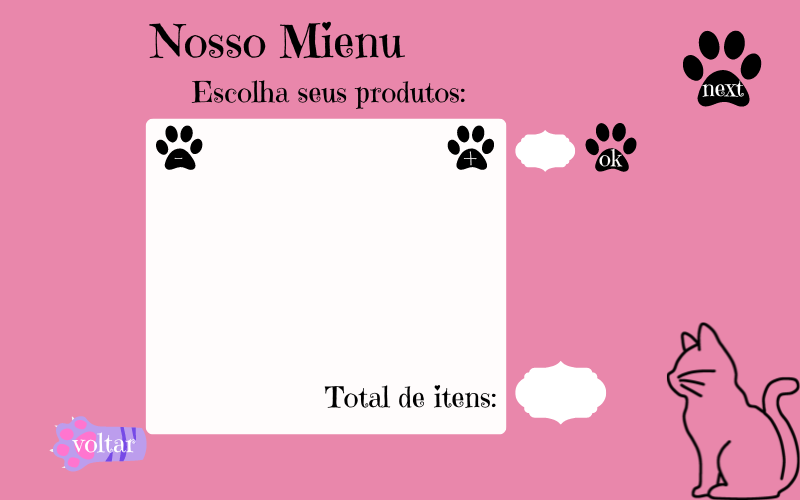
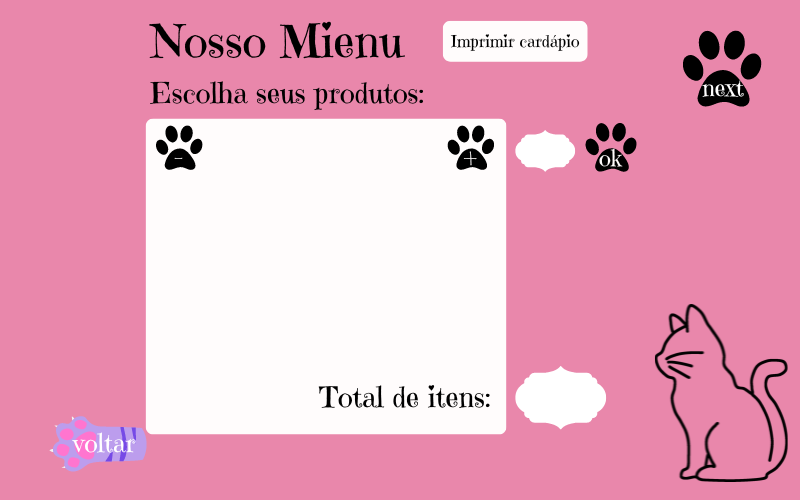
botao de imprimir cardápio e função adicionadas

diff --git a/deliveryDesafio/src/Menu.java b/deliveryDesafio/src/Menu.java
@@ -30,6 +30,9 @@ public class Menu  extends JFrame {
         Botao botaoOk = new Botao();
         botaoOk.setBounds(584, 122, 52, 55);
 
+        Botao botaoImprimir = new Botao();
+        botaoImprimir.setBounds(440, 0, 140, 40);
+
 
         //BOTOES DE AUMENTAR QNTD
         aumentarQtd = new Botao();
@@ -84,6 +87,19 @@ public class Menu  extends JFrame {
             }
         });
 
+        botaoImprimir.addActionListener(new ActionListener() {
+            public void actionPerformed(ActionEvent e) {
+                System.out.println("=-=-=-=-=-=-=-=-=-=-=-=-=-=-=-=-=-=-=-=-=");
+                System.out.println("Restaurante Esfihas Donatello");
+                System.out.println("PRODUTO ................... PREÇO");
+                System.out.println("Esfiha doce ............... R$ 13,00");
+                System.out.println("Esfiha salgada ............ R$ 15,00");
+                System.out.println("Mini pizza ................ R$ 22,00");
+                System.out.println("Refrigerante .............. R$ 6,00");
+                System.out.println("=-=-=-=-=-=-=-=-=-=-=-=-=-=-=-=-=-=-=-=-=");
+            }
+        });
+
 
         getContentPane().add(botaoVoltar);
         getContentPane().add(botaoNext);
@@ -92,6 +108,7 @@ public class Menu  extends JFrame {
         getContentPane().add(aumentarQtd);
         getContentPane().add(diminuirQtd);
         getContentPane().add(labelQtdProdutoAtual);
+        getContentPane().add(botaoImprimir);
 
         ImageIcon imagem = new ImageIcon("src/imagens/cardapio.png");
         Image imagemRedimensionada = imagem.getImage().getScaledInstance(800, 550, Image.SCALE_DEFAULT);

diff --git a/deliveryDesafio/src/Botao.java b/deliveryDesafio/src/Botao.java
@@ -3,9 +3,9 @@ import javax.swing.*;
 public class Botao extends JButton {
     public Botao(){
         this.setBounds(60, 440, 100, 50);
-        this.setOpaque(false);
-        this.setContentAreaFilled(false);
-        this.setBorderPainted(false);
+        //this.setOpaque(false);
+        //this.setContentAreaFilled(false);
+        //this.setBorderPainted(false);
     }
 
 }

diff --git a/deliveryDesafio/src/Pedidos.java b/deliveryDesafio/src/Pedidos.java
@@ -53,9 +53,5 @@ public class Pedidos extends JFrame {
         getContentPane().add(labelImagem);
         getContentPane().add(botaoVoltar);
         getContentPane().add(botaoNext);
-
     }
-
-
-
 }
